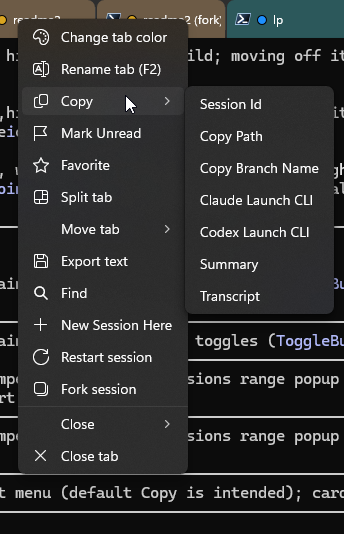
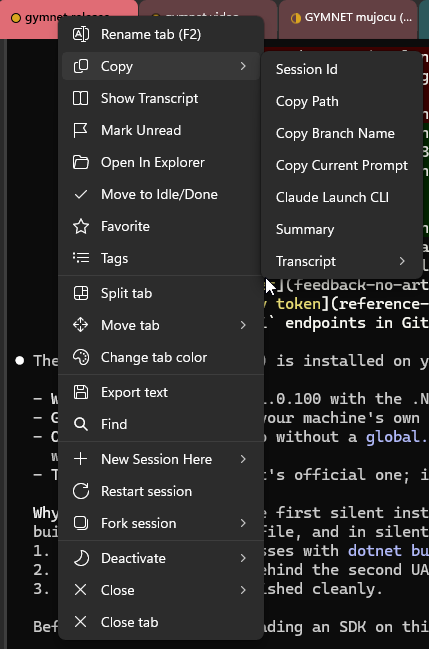
docs(readme): new screenshots - the main window (side panel + terminal) is the top picture, the current Sessions page sits under "Never lose a session", and the tab menu stands beside a side-panel card's Fork menu under "Observability everywhere"
The owner's four new screenshots (2026-11-13) replace the README's three from June:

- doc/agentmaster/img/main-window.png (new, 1920x1032): Agentmaster's main window - the side panel's
  session cards over the selected session's summary, the tab strip's state dots and folder colors, a
  Claude Code session with its top-right status badge. It is the README's top picture now, in place of
  agent-manager.png (the Agent Manager page with a tab menu open), which is deleted: nothing else in the
  repository, the catalog or the notes of any of the 44 GitHub releases links it (all checked).
- doc/agentmaster/img/sessions-browser.png (same name, new picture, 1920x1032): the Sessions page as it
  is now (the AI toggle in the search box, Folders, the tag chips, the Ctx column, Fork here and Open New
  Session Here with their menus). It leaves the table for full width under "Never lose a session - ever",
  the section that describes the Sessions browser.
- doc/agentmaster/img/tab-copy-menu.png (same name, new picture, 429x649): a Claude tab's right-click
  menu with Copy open, as it is now (Copy Current Prompt, Transcript, Show Transcript, Open In Explorer,
  Move to Idle/Done, Tags, Deactivate).
- doc/agentmaster/img/side-panel-fork-menu.png (new, 743x446): a side-panel card's right-click menu with
  Fork session open - the models, and the presets on another provider.

The layout is the owner's pick among three rendered mockups ("Menus side by side", with the new Sessions
[…]

diff --git a/README.md b/README.md
@@ -7,7 +7,7 @@ _By developers, for developers - Never lose a session again - feel like Windows 
 
 Each session is a real `claude.exe` on a **ConPTY** connection: a full-fidelity terminal with a shared stdin (you and the orchestrator coexist), output tapped for the UI, and semantic state from **Claude Code hooks** and an **out-of-band observer** — never screen-scraping.
 
-[![The Agentmaster Manager tab — the Triage Board (sessions as cards in state columns: Running · Waiting-for-you · Needs-approval · Error · Idle/Done · External), the Explorer Tree (working directories → their sessions), and the per-tab summary panel, with a managed tab's right-click menu open showing the Copy submenu (Session Id · Path · Branch · Claude/Codex launch CLI · Summary · Transcript)](doc/agentmaster/img/agent-manager.png)](https://raw.githubusercontent.com/Nucs/Agentmaster/agentmaster/doc/agentmaster/img/agent-manager.png)
+[![Agentmaster's main window — the side panel's session cards on the left (each with its state, age and folder / branch, the selected session's summary below them), the tab strip with every tab's state dot and its folder's color, and a Claude Code session in the terminal with its status badge at the top right (model · state · Prompt Queue Runner mode · folder / branch)](doc/agentmaster/img/main-window.png)](https://raw.githubusercontent.com/Nucs/Agentmaster/agentmaster/doc/agentmaster/img/main-window.png)
 
 ## ✨ What it does for you
 
@@ -22,6 +22,8 @@ Close a window and reopen it **whole**: geometry, **resumed** Claude *and* Codex
 - every save keeps what another version wrote;
 - each new version first copies your state files into `backups\`.
 
+[![The Sessions browser — every Claude Code session on disk in one list (title, folder, branch, created, last active, messages · tools, context size) under the search box with its AI toggle, the scope buttons, the Open / Hidden / Favorite and Folders filters, the time range and the tag chips; on the right the selected session's details and summary, with Jump to tab · Fork here · Open New Session Here](doc/agentmaster/img/sessions-browser.png)](https://raw.githubusercontent.com/Nucs/Agentmaster/agentmaster/doc/agentmaster/img/sessions-browser.png)
+
 ### 👀 Manages every agent — even the ones you didn't launch
 The **Fleet Observer** detects, correlates, and enriches *every* Claude/Codex session by reading process memory and transcripts **out-of-band** — no hooks, no setup, completely invisible to the shell. Hand-type `claude` in any tab and it's managed within seconds. Sessions running *outside* the app show up too: watch them read-only, or **adopt** them (fork a safe copy, or resume).
 
@@ -33,11 +35,11 @@ You never have to open the Manager to read a session. Every classified tab wears
 
 <table>
 <tr>
-<td width="74%" valign="top">
-<a href="https://raw.githubusercontent.com/Nucs/Agentmaster/agentmaster/doc/agentmaster/img/sessions-browser.png"><img alt="The Agentmaster Sessions browser — every on-disk Claude Code session with a scoped, fuzzy search bar and time-range filter on the left, and a detail pane (metadata · conversation · Resume / Fork / Open-New-Session) on the right" src="doc/agentmaster/img/sessions-browser.png" width="100%"></a>
+<td width="30%" valign="top">
+<a href="https://raw.githubusercontent.com/Nucs/Agentmaster/agentmaster/doc/agentmaster/img/tab-copy-menu.png"><img alt="A Claude tab's right-click menu with the Copy submenu open (Session Id · Copy Path · Copy Branch Name · Copy Current Prompt · Claude Launch CLI · Summary · Transcript ▸), beside Show Transcript, Mark Unread, Open In Explorer, Move to Idle/Done, Favorite, Tags, New Session Here, Restart session, Fork session, Deactivate and Close" src="doc/agentmaster/img/tab-copy-menu.png" width="100%"></a>
 </td>
-<td width="26%" valign="top">
-<a href="https://raw.githubusercontent.com/Nucs/Agentmaster/agentmaster/doc/agentmaster/img/tab-copy-menu.png"><img alt="The managed-tab right-click menu (per-tab actions + observability) with the Copy submenu open — Session Id · Path · Branch · Claude/Codex launch CLI · Summary · Transcript" src="doc/agentmaster/img/tab-copy-menu.png" width="100%"></a>
+<td width="70%" valign="top">
+<a href="https://raw.githubusercontent.com/Nucs/Agentmaster/agentmaster/doc/agentmaster/img/side-panel-fork-menu.png"><img alt="A side-panel session card's right-click menu (Jump to Tab · Pin to Top · Rename · Tags · Copy · Show Transcript · Open New Session Here · Restart session · Fork session · Deactivate · Close) with Fork session ▸ open: fork onto the default model, a model you specify, a model from your list, or a preset on another provider (three NanoGPT models)" src="doc/agentmaster/img/side-panel-fork-menu.png" width="100%"></a>
 </td>
 </tr>
 </table>
